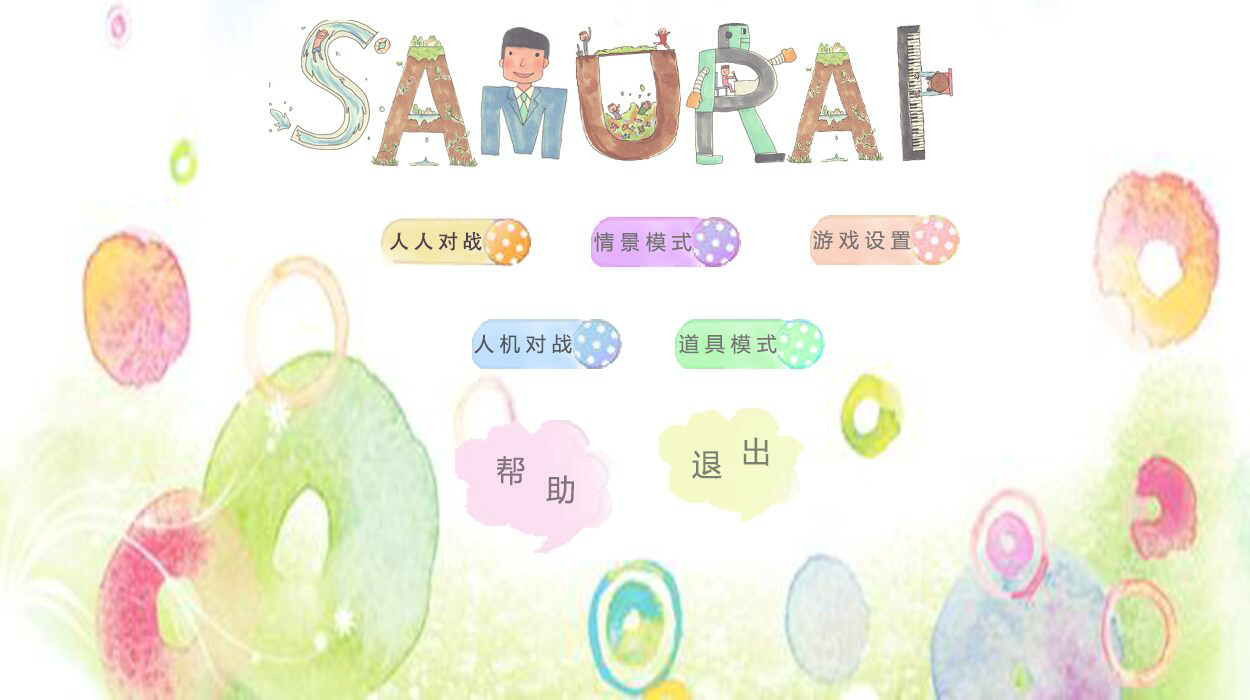
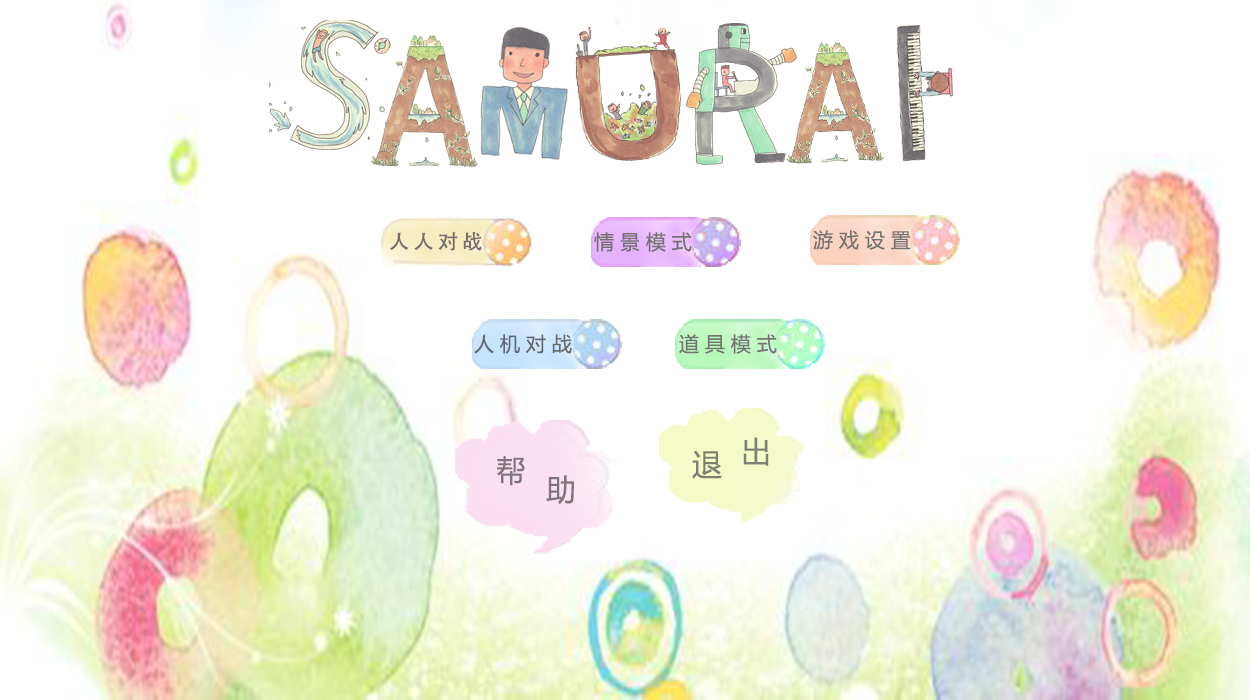
LittleChange

diff --git a/Samurai/src/team/csca/view/image/ImgButton.java b/Samurai/src/team/csca/view/image/ImgButton.java
@@ -1,0 +1,136 @@
+package team.csca.view.image;
+
+import java.awt.Image;
+
+import javax.swing.ImageIcon;
+
+public class ImgButton {
+	/**
+	 * JPanelStartMovie里的Button
+	 */
+	public static Image PLAY_1 = new ImageIcon("Image/Button/P1.png").getImage();
+	
+	public static Image PLAY_2 = new ImageIcon("Image/Button/P2.png").getImage();
+	
+	public static Image PLAY_3 = new ImageIcon("Image/Button/P3.png").getImage();
+	
+	/**
+	 * Button in JPanelStartGame.
+	 */
+	
+	
+	/**
+	 *  退出按钮
+	 */
+	public final static Image BUTTON_EXIT_INIT;
+	
+	public final static Image BUTTON_EXIT_ENTER;
+	
+	public final static Image BUTTON_EXIT_CLICK;
+	
+	static{
+		
+		BUTTON_EXIT_INIT = new ImageIcon("Image/MainPanel/button_exit1.png").getImage();
+		BUTTON_EXIT_ENTER = new ImageIcon("Image/MainPanel/button_exit2.png").getImage();
+		BUTTON_EXIT_CLICK  = new ImageIcon("Image/MainPanel/button_exit3.png").getImage();
+		
+	}
+	/**
+	 * 帮助按钮
+	 */
+	public final static Image BUTTON_HELP_INIT;
+	
+	public final static Image BUTTON_HELP_ENTER;
+	
+	public final static Image BUTTON_HELP_CLICK;
+	
+	static{
+		
+		BUTTON_HELP_INIT = new ImageIcon("Image/MainPanel/button_help1.png").getImage();
+		BUTTON_HELP_ENTER = new ImageIcon("Image/MainPanel/button_help2.png").getImage();
+		BUTTON_HELP_CLICK = new ImageIcon("Image/MainPanel/button_help3.png").getImage();
+		
+	}
+	/**
+	 * 人人对战
+	 */
+	public final static Image BUTTON_PEPOLE_INIT;
+	
+	public final static Image BUTTON_PEOPLE_ENTER;
+	
+	public final static Image BUTTON_PEOPLE_CLICK;
+	
+	static{
+		
+		BUTTON_PEPOLE_INIT  = new ImageIcon("Image/MainPanel/button1_1.png").getImage();
+		BUTTON_PEOPLE_ENTER = new ImageIcon("Image/MainPanel/button2_1.png").getImage();
+		BUTTON_PEOPLE_CLICK = new ImageIcon("Image/MainPanel/button3_1.png").getImage();
+		
+	}
+	
+	/**
+	 * 人机对战
+	 */
+	public final static Image BUTTON_MACHINE_INIT;
+	
+	public final static Image BUTTON_MACHINE_ENTER;
+	
+	public final static Image BUTTON_MACHINE_CLICK;
+	
+	static{
+		
+		BUTTON_MACHINE_INIT = new ImageIcon("Image/MainPanel/button1_4.png").getImage();
+		BUTTON_MACHINE_ENTER = new ImageIcon("Image/MainPanel/button2_4.png").getImage();
+		BUTTON_MACHINE_CLICK = new ImageIcon("Image/MainPanel/button3_4.png").getImage();
+		
+	}
+	
+	/**
+	 * 情景模式
+	 */
+	public final static Image BUTTON_SITUATION_INIT;
+	
+	public final static Image BUTTON_SITUATION_ENTER;
+	
+	public final static Image BUTTON_SITUATION_CLICK;
+	
+	static{
+		
+		BUTTON_SITUATION_INIT = new ImageIcon("Image/MainPanel/button1_2.png").getImage();;
+		BUTTON_SITUATION_ENTER = new ImageIcon("Image/MainPanel/button2_2.png").getImage();
+		BUTTON_SITUATION_CLICK = new ImageIcon("Image/MainPanel/button3_2.png").getImage();
+		
+	}
+	
+	public final static Image BUTTON_PROPS_INIT;
+	
+	public final static Image BUTTON_PROPS_ENTER;
+	
+	public final static Image BUTTON_PROPS_CLICK;
+	
+	static{
+		
+		BUTTON_PROPS_INIT = new ImageIcon("Image/MainPanel/button1_3.png").getImage();
+		BUTTON_PROPS_ENTER = new ImageIcon("Image/MainPanel/button2_3.png").getImage();
+		BUTTON_PROPS_CLICK = new ImageIcon("Image/MainPanel/button3_3.png").getImage();
+		
+	}
+	
+	/**
+	 * 设置按钮
+	 */
+	public final static Image BUTTON_SET_INIT;
+	
+	public final static Image BUTTON_SET_ENTER;
+	
+	public final static Image BUTTON_SET_CLICK;
+	
+	static{
+		
+		BUTTON_SET_INIT = new ImageIcon("Image/MainPanel/button1_5.png").getImage();
+		BUTTON_SET_ENTER = new ImageIcon("Image/MainPanel/button2_5.png").getImage();
+		BUTTON_SET_CLICK = new ImageIcon("Image/MainPanel/button3_5.png").getImage();
+		
+	}
+
+}

diff --git a/Samurai/src/team/csca/view/startgame/JPanelStartGame.java b/Samurai/src/team/csca/view/startgame/JPanelStartGame.java
@@ -1,0 +1,37 @@
+package team.csca.view.startgame;
+
+import java.awt.Graphics;
+
+import javax.swing.ImageIcon;
+import javax.swing.JPanel;
+
+import team.csca.view.extend.Layer;
+import team.csca.view.extend.LayerBackground;
+import team.csca.view.image.ImgBackground;
+
+public class JPanelStartGame extends JPanel{
+	
+	private Layer[] layers;
+	
+	ImageIcon iiStart = new ImageIcon("Image/Button/P2.png");
+
+	
+	public JPanelStartGame(){
+		
+		this.setLayout(null);
+		// 添加背景
+		layers = new Layer[] {
+			new LayerBackground(0, 0, 1250, 700, ImgBackground.MAIN_PANEL_BACKGROUND1),	
+			new LayerBackground(269, 20, 700, 150, ImgBackground.MAIN_PANEL_BACKGROUND2),
+		};
+		
+		
+		
+		
+	}
+	public void paint(Graphics g){
+		for(int i = 0 ; i < this.layers.length ; i++){
+			layers[i].createWindow(g);
+		}
+	}
+}

diff --git a/Samurai/src/team/csca/view/frame/JFrameMain.java b/Samurai/src/team/csca/view/frame/JFrameMain.java
@@ -1,14 +1,15 @@
-package team.csca.view;
+package team.csca.view.frame;
 
 import java.awt.Cursor;
 import java.awt.Dimension;
 import java.awt.Point;
 import java.awt.Toolkit;
-import java.awt.event.WindowEvent;
 
 import javax.swing.JFrame;
 
 import team.csca.controller.Controller;
+import team.csca.view.image.ImgSystem;
+import team.csca.view.startmovie.JPanelStartMovie;
 
 /**
  * This class decides the main frame of this software 

diff --git a/Samurai/src/team/csca/view/image/ImgBackground.java b/Samurai/src/team/csca/view/image/ImgBackground.java
@@ -1,0 +1,19 @@
+package team.csca.view.image;
+
+import java.awt.Image;
+
+import javax.swing.ImageIcon;
+
+public class ImgBackground {
+	/**
+	 * 
+	 * Background in the panel start game
+	 * 
+	 */
+	public final static Image MAIN_PANEL_BACKGROUND1 = new ImageIcon("Image/MainPanel/background.png").getImage();
+	
+	public final static Image MAIN_PANEL_BACKGROUND2 = new ImageIcon("Image/MainPanel/title.png").getImage();
+	
+	
+	
+}

diff --git a/Samurai/src/team/csca/view/startmovie/JPanelStartMovie.java b/Samurai/src/team/csca/view/startmovie/JPanelStartMovie.java
@@ -1,4 +1,4 @@
-package team.csca.view;
+package team.csca.view.startmovie;
 
 import java.awt.Graphics;
 import java.awt.Image;
@@ -8,7 +8,8 @@ import java.awt.event.KeyListener;
 import javax.swing.ImageIcon;
 import javax.swing.JPanel;
 
-import ui.panelmain.PanelMain;
+import team.csca.view.frame.JFrameMain;
+import team.csca.view.startgame.JPanelStartGame;
 
 /**
  * 这个文件写开场动画

diff --git a/Samurai/src/team/csca/view/extend/DynamicButton.java b/Samurai/src/team/csca/view/extend/DynamicButton.java
@@ -1,11 +1,9 @@
-package team.csca.view;
+package team.csca.view.extend;
 
 import java.awt.Graphics;
 import java.awt.Image;
 import java.awt.event.MouseEvent;
 import java.awt.event.MouseListener;
-
-import team.csca.view.*;
 
 public abstract class DynamicButton extends StaticButton implements MouseListener {
 

diff --git a/Samurai/src/team/csca/view/startmovie/JButtonPlay.java b/Samurai/src/team/csca/view/startmovie/JButtonPlay.java
@@ -1,10 +1,9 @@
-package team.csca.view;
+package team.csca.view.startmovie;
 
 import java.awt.event.MouseEvent;
 
-import javax.swing.JPanel;
-
-import ui.panelmain.PanelMain;
+import team.csca.view.extend.DynamicButton;
+import team.csca.view.image.ImgButton;
 
 /**
  * 

diff --git a/Samurai/src/team/csca/view/extend/StaticButton.java b/Samurai/src/team/csca/view/extend/StaticButton.java
@@ -1,10 +1,12 @@
-package team.csca.view;
+package team.csca.view.extend;
 
 import java.awt.Graphics;
 import java.awt.Image;
 
 import javax.swing.JButton;
 import javax.swing.JFrame;
+
+import team.csca.view.frame.JFrameMain;
 
 /**
  * 

diff --git a/Samurai/src/team/csca/controller/Controller.java b/Samurai/src/team/csca/controller/Controller.java
@@ -1,8 +1,7 @@
 package team.csca.controller;
 
 
-import team.csca.controller.Controller;
-import team.csca.view.JFrameMain;
+import team.csca.view.frame.JFrameMain;
 
 public class Controller {
 	private JFrameMain frame;

diff --git a/Samurai/src/team/csca/view/extend/LayerBackground.java b/Samurai/src/team/csca/view/extend/LayerBackground.java
@@ -1,9 +1,7 @@
-package team.csca.view;
+package team.csca.view.extend;
 
 import java.awt.Graphics;
 import java.awt.Image;
-
-import team.csca.view.*;
 
 public class LayerBackground extends Layer {
 	

diff --git a/Samurai/src/team/csca/main/Main.java b/Samurai/src/team/csca/main/Main.java
@@ -1,6 +1,6 @@
 package team.csca.main;
 
-import team.csca.view.JFrameMain;
+import team.csca.view.frame.JFrameMain;
 
 /**
  * 整个游戏的入口

diff --git a/Samurai/src/team/csca/view/startgame/JButtonSetting.java b/Samurai/src/team/csca/view/startgame/JButtonSetting.java
@@ -1,0 +1,10 @@
+package team.csca.view.startgame;
+/**
+ * 
+ * 设置按钮
+ * @author With You
+ *
+ */
+public class JButtonSetting {
+
+}
